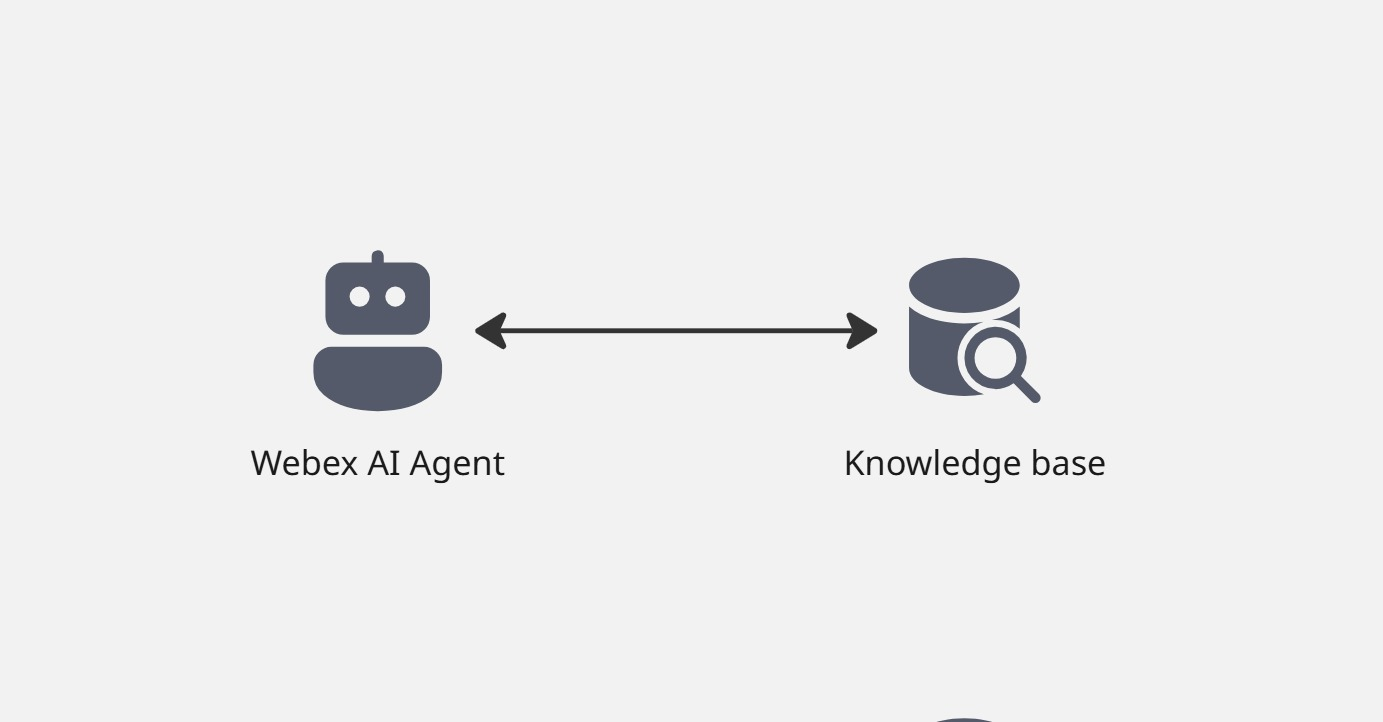
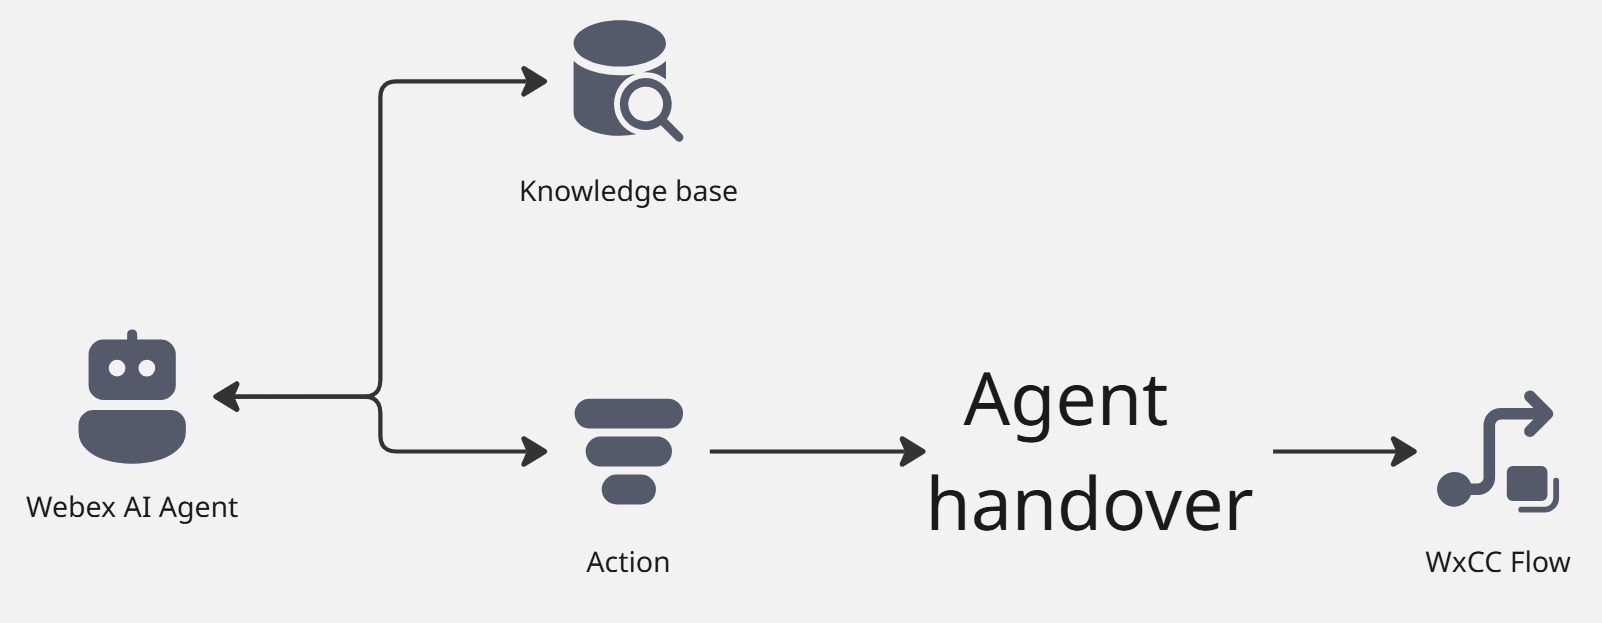
1

diff --git a/docs/main/AI_Lab_Aut_Mission_Transfer.md b/docs/main/AI_Lab_Aut_Mission_Transfer.md
@@ -21,7 +21,7 @@ Transfer Action is a task that an AI agent performs by understanding user intent
 ## Mission overview
 Your mission is to:
 
-Configure the Transfer action to transfer the call to the WxCC Voice flow for further processing if the call is from flower suppliers.
+Configure the Transfer action to transfer the call to WxCC Voice with custom settings for further processing if the caller wants to talk to the HR or Billing departments.
 
    ![Profiles](../graphics/Lab1_AI_Agent/Untitled(10).jpg)
 
@@ -29,7 +29,7 @@ Configure the Transfer action to transfer the call to the WxCC Voice flow for fu
 
 ## Build
 
-### Task 1. Create Service and AI Agent Flow in Webex Connect. 
+### Task 1. Create Transfer to flow action in AI Agent Studio portal. 
 
 1. From Control Hub, go to **Contact Center** > **Overview** and open up **Webex Connect** Portal. 
     ![Profiles](../graphics/Lab1_AI_Agent/2.9.gif)

diff --git a/docs/main/AIAgentTrack_Mission1.md b/docs/main/AIAgentTrack_Mission1.md
@@ -11,7 +11,7 @@ icon: material/medal
 ## Mission overview
 Your mission is to:
 
-Create an AI agent and upload the knowledge base (KB) to enable the agent to provide answers about available flowers and assist customers with creating an order.
+Create an AI agent and upload the knowledge base (KB) to enable the agent to provide answers about available flowers and assist customers with creating an order or transferring the interaction to a human agent.
     ![Profiles](../graphics/Lab1_AI_Agent/Untitled(9).jpg)
 
 ---
